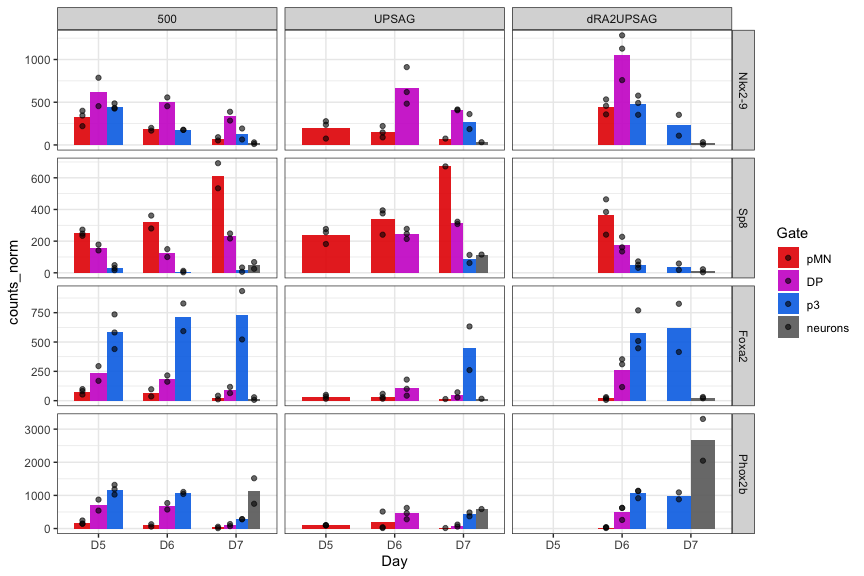
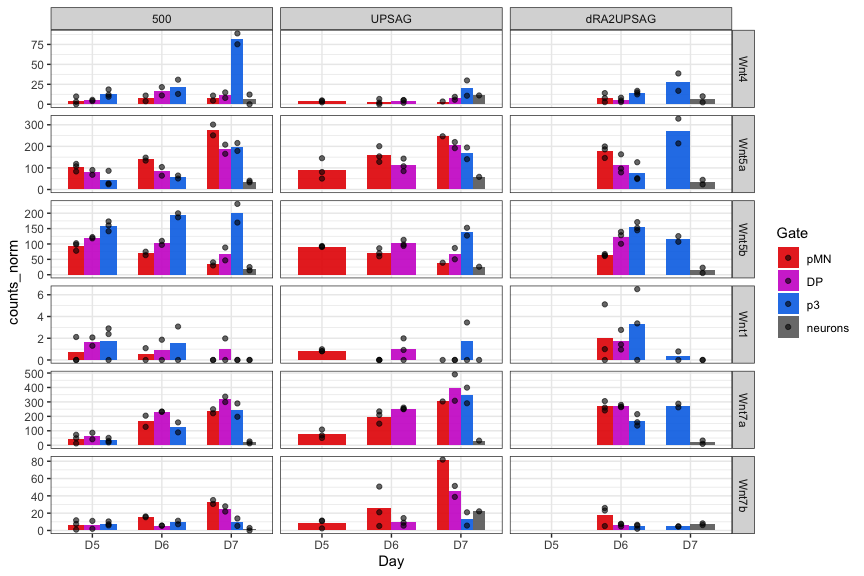
plots for poster

Changed region(s): [[0.0312, 0.0, 0.875, 1.0], [0.625, 0.4375, 0.6562, 0.4688], [0.1875, 0.0312, 0.2188, 0.0625]]

diff --git a/r_files/DPCaTSRNA_2_quick_plotgenes.md b/r_files/DPCaTSRNA_2_quick_plotgenes.md
@@ -258,12 +258,13 @@ ggplot(dds_counts_plot %>% filter(geneid %in% geneOI & Condition %in% c("500","U
 
 ![](DPCaTSRNA_2_quick_plotgenes_files/figure-gfm/unnamed-chunk-10-3.png)<!-- -->
 
-Temporal program
+### plots for Poster
 
 ``` r
-geneOI <- c("Nr6a1","Lef1","Sox9","Rfx4","Nfib","Atf3","Fos")
+geneOI <- c("Nkx2-9","Neurod4","Dll1","Dll3", "Hey1","Neurog1","Neurog2")
 
-ggplot(dds_counts_plot %>% filter(geneid %in% geneOI & Condition %in% c("500","UPSAG","dRA2UPSAG")) %>%
+
+ggplot(dds_counts_plot %>% filter(geneid %in% geneOI & Condition %in% c("500")) %>%
          mutate(geneid=factor(geneid, levels=geneOI)), 
        aes(x=Day,y=counts_norm)) +
   stat_summary(aes(fill=Gate),
@@ -273,7 +274,7 @@ ggplot(dds_counts_plot %>% filter(geneid %in% geneOI & Condition %in% c("500","U
   scale_fill_manual(values=color_gates) +
   scale_color_manual(values=color_gates) +
   scale_shape_manual(values=shapes4_fill_manual) +
-  facet_grid(geneid ~ Condition, scales = "free_y") +
+  facet_wrap(~ geneid , scales = "free_y") +
   theme_bw()
 ```
 
@@ -297,12 +298,10 @@ ggplot(dds_counts_plot %>% filter(geneid %in% geneOI & Condition %in% c("500","U
 
 ![](DPCaTSRNA_2_quick_plotgenes_files/figure-gfm/unnamed-chunk-11-2.png)<!-- -->
 
-Genes from Rayon et al
+Temporal program
 
 ``` r
-geneOI <- c("Olig2","Olig1","Nkx2-2","Nkx2-9","Nkx6-1","Nkx6-2","Fabp7",
-            "Sox9","Neurod4","Neurog1","Neurog2","Neurog3")
-
+geneOI <- c("Nr6a1","Lef1","Sox9","Rfx4","Nfib","Atf3","Fos")
 
 ggplot(dds_counts_plot %>% filter(geneid %in% geneOI & Condition %in% c("500","UPSAG","dRA2UPSAG")) %>%
          mutate(geneid=factor(geneid, levels=geneOI)), 
@@ -338,13 +337,11 @@ ggplot(dds_counts_plot %>% filter(geneid %in% geneOI & Condition %in% c("500","U
 
 ![](DPCaTSRNA_2_quick_plotgenes_files/figure-gfm/unnamed-chunk-12-2.png)<!-- -->
 
-Rayon’s “gliogenic score”
-
-FABP7, SOX9, SOX10, PDGFRA, CSPG4, FGFR3, FGFBP3, DBI, SLC1A3, HOPX,
-ALDH1L1
+Genes from Rayon et al
 
 ``` r
-geneOI <- c("Fabp7","Sox9","Sox10","Pdgfra","Cspg4","Fgfr3","Fgfbp3","Dbi","Slc1a3","Hopx","Aldh1l1")
+geneOI <- c("Olig2","Olig1","Nkx2-2","Nkx2-9","Nkx6-1","Nkx6-2","Fabp7",
+            "Sox9","Neurod4","Neurog1","Neurog2","Neurog3")
 
 
 ggplot(dds_counts_plot %>% filter(geneid %in% geneOI & Condition %in% c("500","UPSAG","dRA2UPSAG")) %>%
@@ -381,12 +378,13 @@ ggplot(dds_counts_plot %>% filter(geneid %in% geneOI & Condition %in% c("500","U
 
 ![](DPCaTSRNA_2_quick_plotgenes_files/figure-gfm/unnamed-chunk-13-2.png)<!-- -->
 
-### Wnt genes
+Rayon’s “gliogenic score”
 
-following Agalliu et al
+FABP7, SOX9, SOX10, PDGFRA, CSPG4, FGFR3, FGFBP3, DBI, SLC1A3, HOPX,
+ALDH1L1
 
 ``` r
-geneOI <- c("Wnt4","Wnt5a","Wnt5b","Wnt1","Wnt7a","Wnt7b")
+geneOI <- c("Fabp7","Sox9","Sox10","Pdgfra","Cspg4","Fgfr3","Fgfbp3","Dbi","Slc1a3","Hopx","Aldh1l1")
 
 
 ggplot(dds_counts_plot %>% filter(geneid %in% geneOI & Condition %in% c("500","UPSAG","dRA2UPSAG")) %>%
@@ -423,8 +421,12 @@ ggplot(dds_counts_plot %>% filter(geneid %in% geneOI & Condition %in% c("500","U
 
 ![](DPCaTSRNA_2_quick_plotgenes_files/figure-gfm/unnamed-chunk-14-2.png)<!-- -->
 
+### Wnt genes
+
+following Agalliu et al
+
 ``` r
-geneOI <- c("Nkx2-9","Sp8","Foxa2","Phox2b")
+geneOI <- c("Wnt4","Wnt5a","Wnt5b","Wnt1","Wnt7a","Wnt7b")
 
 
 ggplot(dds_counts_plot %>% filter(geneid %in% geneOI & Condition %in% c("500","UPSAG","dRA2UPSAG")) %>%
@@ -460,6 +462,44 @@ ggplot(dds_counts_plot %>% filter(geneid %in% geneOI & Condition %in% c("500","U
 ```
 
 ![](DPCaTSRNA_2_quick_plotgenes_files/figure-gfm/unnamed-chunk-15-2.png)<!-- -->
+
+``` r
+geneOI <- c("Nkx2-9","Sp8","Foxa2","Phox2b")
+
+
+ggplot(dds_counts_plot %>% filter(geneid %in% geneOI & Condition %in% c("500","UPSAG","dRA2UPSAG")) %>%
+         mutate(geneid=factor(geneid, levels=geneOI)), 
+       aes(x=Day,y=counts_norm)) +
+  stat_summary(aes(fill=Gate),
+    fun = mean, geom="bar", alpha=0.9, width=0.7,position=position_dodge(0.7)) +
+  geom_point(aes(fill=Gate), alpha=0.6, position = position_dodge(width = 0.7),color="black") +
+  #geom_col(position="dodge",aes(fill=DayGate)) +
+  scale_fill_manual(values=color_gates) +
+  scale_color_manual(values=color_gates) +
+  scale_shape_manual(values=shapes4_fill_manual) +
+  facet_grid(geneid ~ Condition, scales = "free_y") +
+  theme_bw()
+```
+
+![](DPCaTSRNA_2_quick_plotgenes_files/figure-gfm/unnamed-chunk-16-1.png)<!-- -->
+
+``` r
+ggplot(dds_counts_plot %>% filter(geneid %in% geneOI & Condition %in% c("500","UPSAG","dRA2UPSAG")) %>%
+         filter(Gate !="neur") %>%
+         mutate(geneid=factor(geneid, levels=geneOI)), 
+       aes(x=Gate,y=counts_norm)) +
+  stat_summary(aes(fill=Day),
+    fun = mean, geom="bar", alpha=0.9, width=0.7,position=position_dodge(0.7)) +
+  geom_point(aes(fill=Day), alpha=0.6, position = position_dodge(width = 0.7),color="black") +
+  #geom_col(position="dodge",aes(fill=DayGate)) +
+  #scale_fill_manual(values=color_gates) +
+  #scale_color_manual(values=color_gates) +
+  scale_shape_manual(values=shapes4_fill_manual) +
+  facet_grid(geneid ~ Condition, scales = "free_y") +
+  theme_bw()
+```
+
+![](DPCaTSRNA_2_quick_plotgenes_files/figure-gfm/unnamed-chunk-16-2.png)<!-- -->
 
 ``` r
 sessionInfo()
